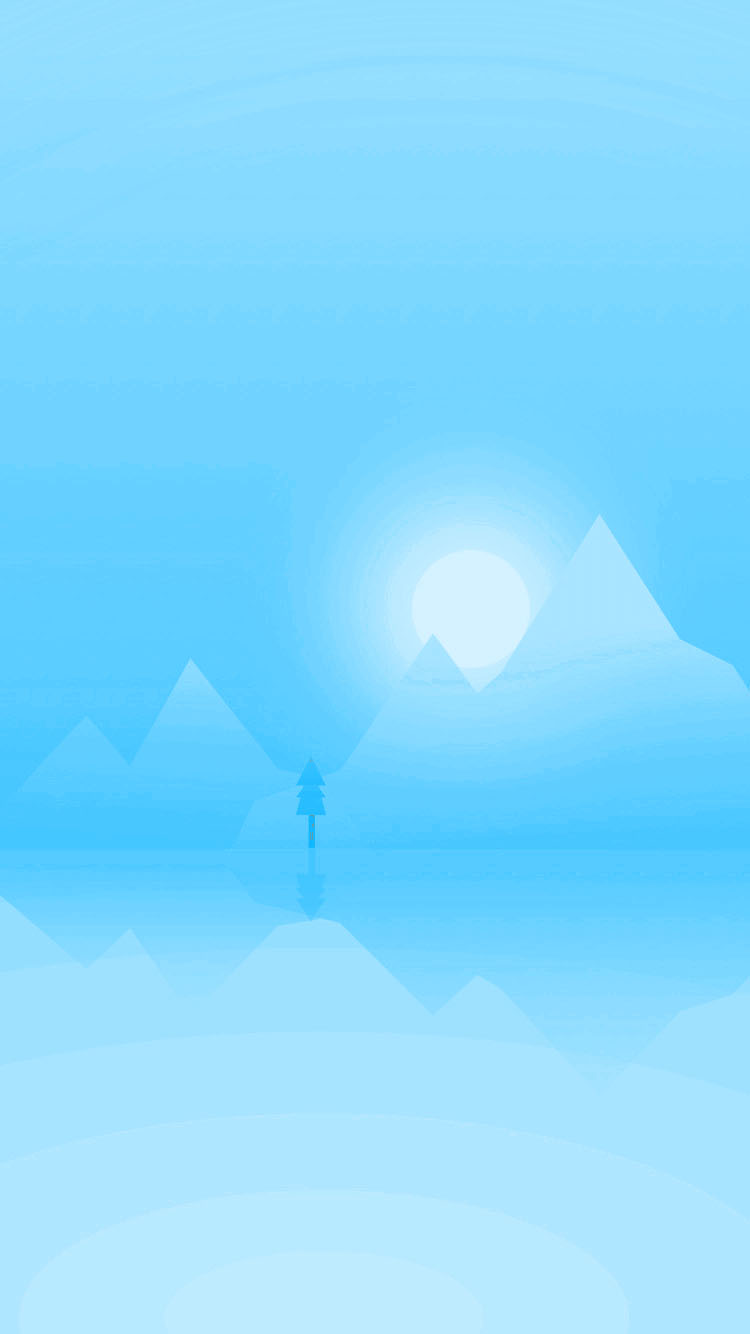
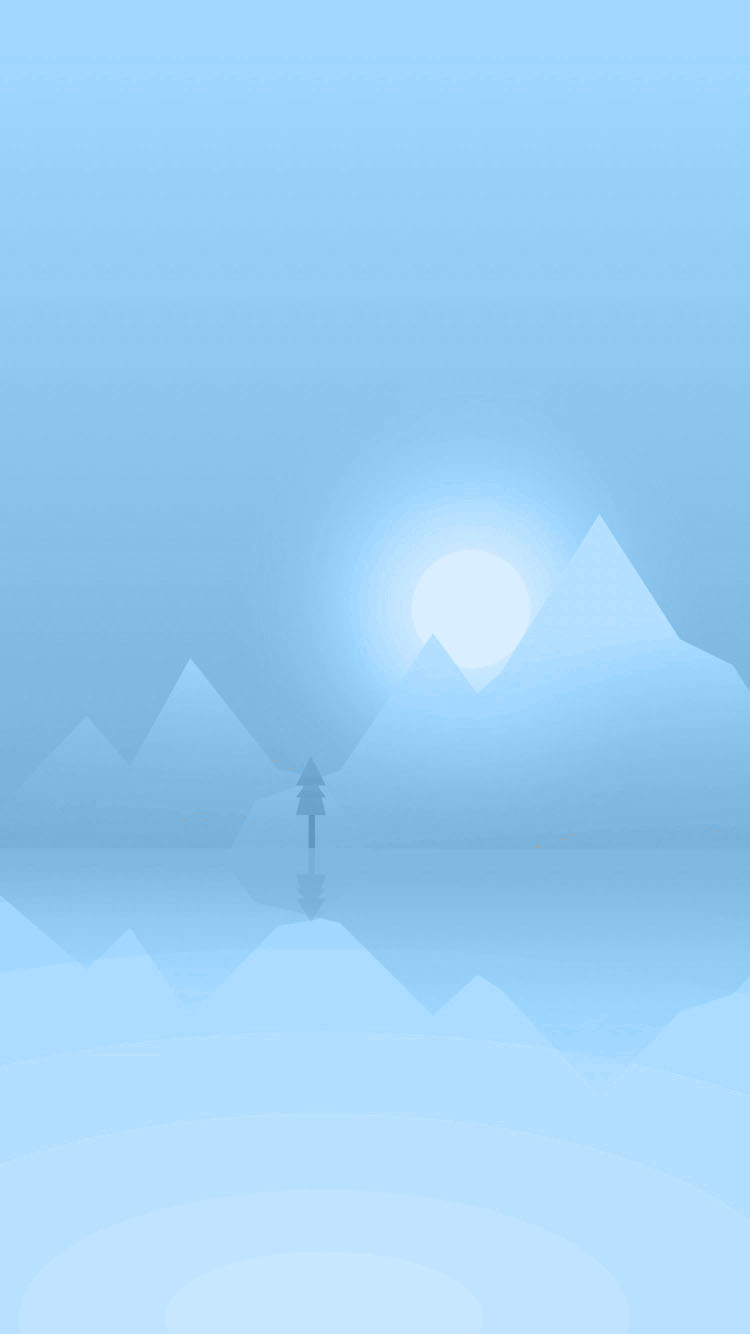
fix time method2

diff --git a/lib/view/components/custom_drawer.dart b/lib/view/components/custom_drawer.dart
@@ -51,6 +51,8 @@ class CustomDrawer extends StatelessWidget {
                               itemsList: cities,
                               onTap: (context, index) {
                                 cubit.setCity(cities[index]);
+                                cubit.resetSearchList();
+                                controller.text ="";
                                 Scaffold.of(context).closeDrawer();
                               },
                               textColor: Colors.white)
@@ -58,6 +60,8 @@ class CustomDrawer extends StatelessWidget {
                               itemsList: cubit.searchResult,
                               onTap: (context, index) {
                                 cubit.setCity(cubit.searchResult[index]);
+                                cubit.resetSearchList();
+                                controller.text ="";
                                 Scaffold.of(context).closeDrawer();
                               },
                               textColor: Colors.white))

diff --git a/lib/bloc/main_cubit/main_cubit.dart b/lib/bloc/main_cubit/main_cubit.dart
@@ -41,7 +41,13 @@ class MainCubit extends Cubit<MainState> {
     DateTime sunsetTime = generateDateTime(weather!.sys.sunset);
 
     if (now.compareTo(sunriseTime) >= 0 && now.compareTo(sunsetTime) < 0) {
-      return "sunny";
+      if (weather!.main.temp < 5) {
+        return "snow";
+      } else if (weather!.main.temp < 20) {
+        return "cold";
+      } else {
+        return "sunny";
+      }
     } else {
       return "night";
     }
